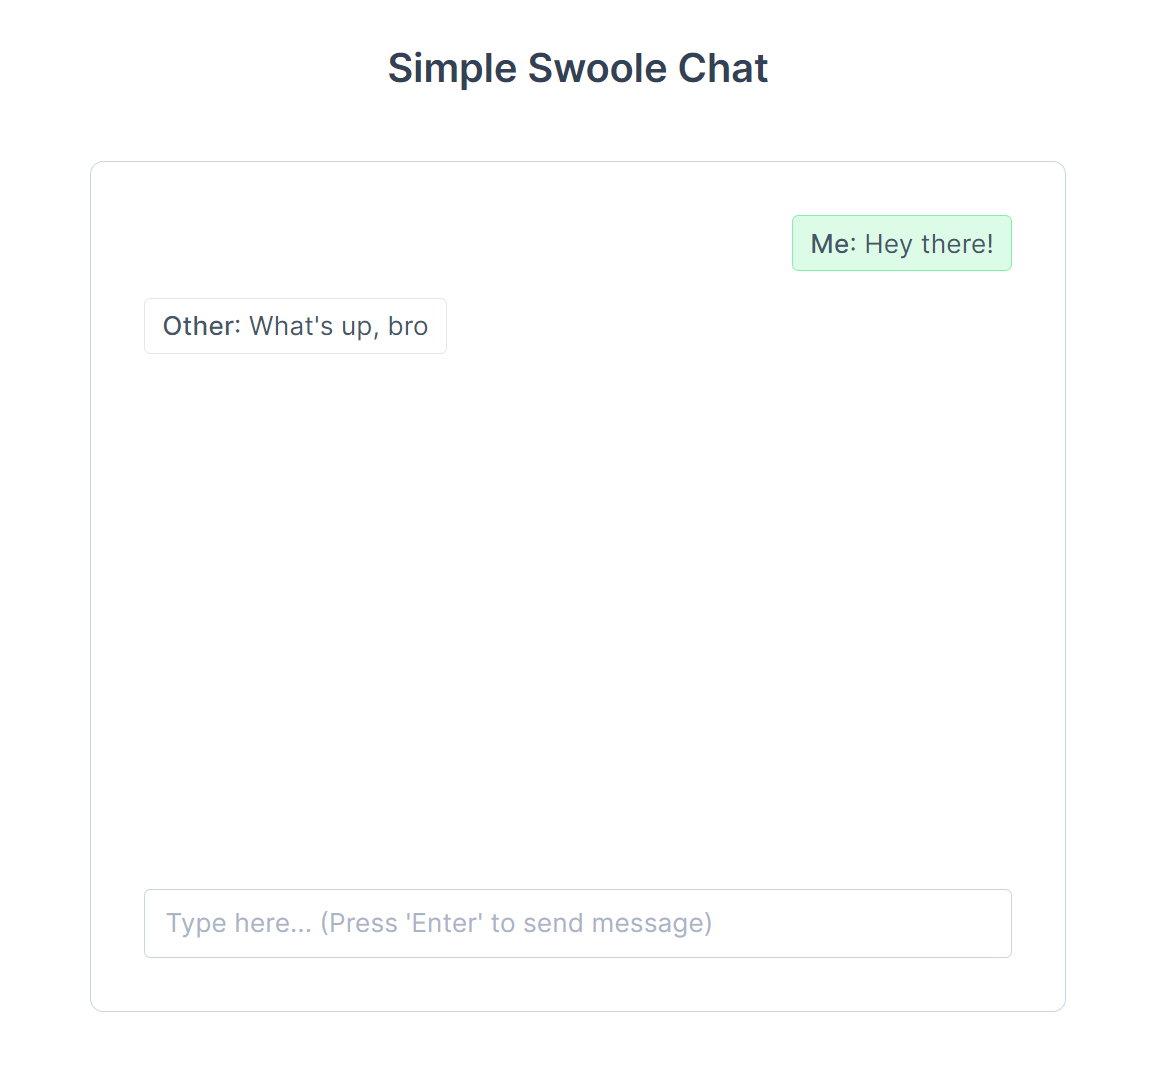
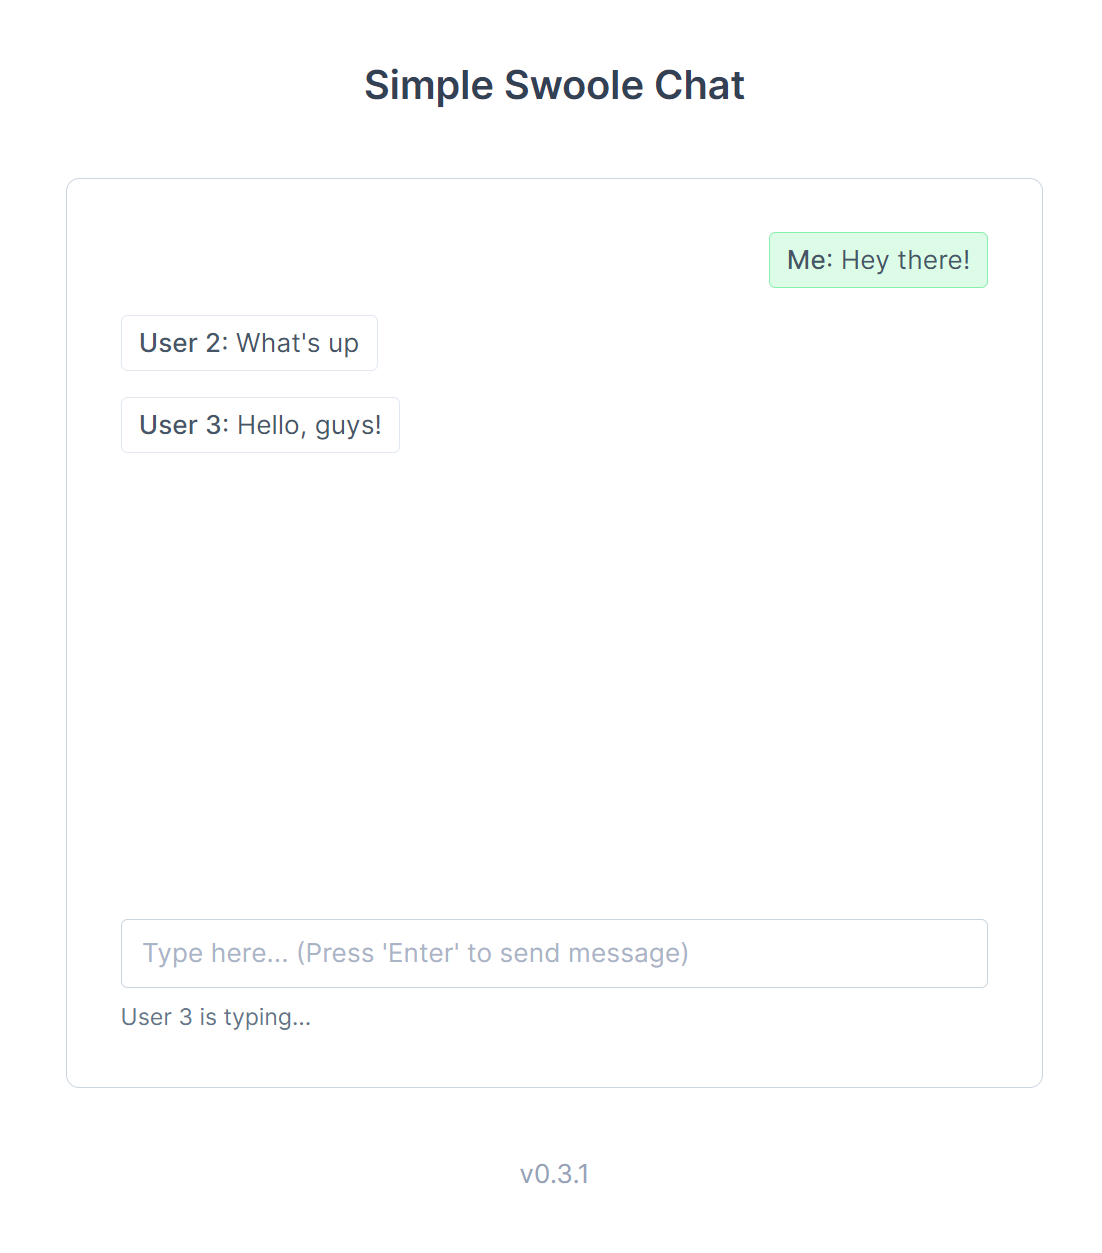
chore: update version on html page and change screenshot

diff --git a/public/index.html b/public/index.html
@@ -30,7 +30,7 @@
                 <typing class="text-sm text-slate-500"></typing>
             </section>
             <footer class="flex items-center justify-center gap-x-6 text-slate-400">
-                <p>v0.2.0</p>
+                <p>v0.3.1</p>
             </footer>
         </main>
 
